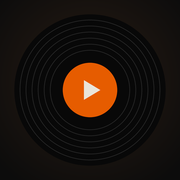
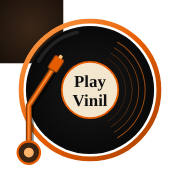
4.5.0 (teste 2): novo ícone com toca-discos e exemplo 'Minha Coleção'
Claude-Session: https://claude.ai/code/session_01UU47mm6HJaotQetN6m3qih

diff --git a/static/admin.html b/static/admin.html
@@ -7,8 +7,8 @@
   <meta name="apple-mobile-web-app-capable" content="yes">
   <meta name="apple-mobile-web-app-status-bar-style" content="black-translucent">
   <meta name="apple-mobile-web-app-title" content="Coleção LP">
-  <link rel="apple-touch-icon" href="/static/playvinil-icon-180.png">
-  <link rel="icon" href="/static/playvinil-favicon.png" type="image/png">
+  <link rel="apple-touch-icon" href="/static/playvinil-icon-180.png?v=2">
+  <link rel="icon" href="/static/playvinil-favicon.png?v=2" type="image/png">
 
   <title>PlayVinil · Catálogo</title>
   <!-- Google Fonts: Outfit for sleek modern UI, JetBrains Mono for metadata -->
@@ -947,7 +947,7 @@
               <p class="settings-card-desc">Aparece embaixo de "PlayVinil" no player e no menu do admin.</p>
               <div class="form-group">
                 <label for="setting-collection-name">Nome</label>
-                <input type="text" id="setting-collection-name" maxlength="60" placeholder="Ex.: Discoteca do Herivelto">
+                <input type="text" id="setting-collection-name" maxlength="60" placeholder="Ex.: Minha Coleção">
               </div>
             </div>
 

diff --git a/static/index.html b/static/index.html
@@ -8,8 +8,8 @@
     <meta name="apple-mobile-web-app-capable" content="yes">
     <meta name="apple-mobile-web-app-status-bar-style" content="black-translucent">
     <meta name="apple-mobile-web-app-title" content="Vinyl Display">
-    <link rel="apple-touch-icon" href="/static/playvinil-icon-180.png">
-    <link rel="icon" href="/static/playvinil-favicon.png" type="image/png">
+    <link rel="apple-touch-icon" href="/static/playvinil-icon-180.png?v=2">
+    <link rel="icon" href="/static/playvinil-favicon.png?v=2" type="image/png">
     
     <title>Vinyl Display</title>
     <link rel="stylesheet" href="/static/styles.css?v=4.3.3">

diff --git a/static/ouvir.html b/static/ouvir.html
@@ -7,8 +7,8 @@
   <meta name="apple-mobile-web-app-capable" content="yes">
   <meta name="apple-mobile-web-app-status-bar-style" content="black-translucent">
   <meta name="apple-mobile-web-app-title" content="Ouvir LP">
-  <link rel="apple-touch-icon" href="/static/playvinil-icon-180.png">
-  <link rel="icon" href="/static/playvinil-favicon.png" type="image/png">
+  <link rel="apple-touch-icon" href="/static/playvinil-icon-180.png?v=2">
+  <link rel="icon" href="/static/playvinil-favicon.png?v=2" type="image/png">
 
   <title>Ouvir LP - Registro Rápido</title>
   <!-- Google Fonts: Outfit for sleek modern UI -->

diff --git a/static/agenda.html b/static/agenda.html
@@ -7,8 +7,8 @@
   <meta name="apple-mobile-web-app-capable" content="yes">
   <meta name="apple-mobile-web-app-status-bar-style" content="black-translucent">
   <meta name="apple-mobile-web-app-title" content="Agenda LP">
-  <link rel="apple-touch-icon" href="/static/playvinil-icon-180.png">
-  <link rel="icon" href="/static/playvinil-favicon.png" type="image/png">
+  <link rel="apple-touch-icon" href="/static/playvinil-icon-180.png?v=2">
+  <link rel="icon" href="/static/playvinil-favicon.png?v=2" type="image/png">
 
   <title>Escuta da Semana - Agenda</title>
   <!-- Google Fonts: Outfit for sleek modern UI -->

diff --git a/vinyl_display/config.py b/vinyl_display/config.py
@@ -32,7 +32,7 @@ class Config:
     player_offline_minutes: int = 10
     alert_quiet_start: str = "22:00"
     alert_quiet_end: str = "10:00"
-    collection_name: str = ""  # v4.5: nome que aparece embaixo de "PlayVinil" (ex.: "Discoteca do Herivelto")
+    collection_name: str = ""  # v4.5: nome que aparece embaixo de "PlayVinil" (ex.: "Minha Coleção")
 
 
 
